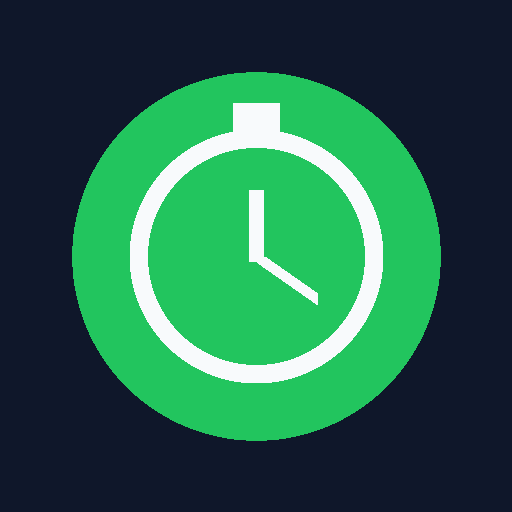
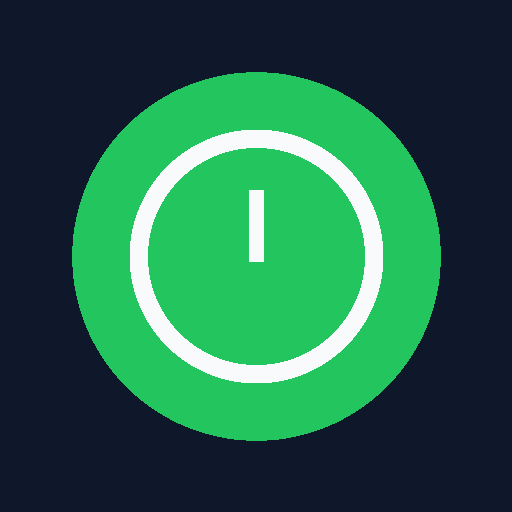
Add files via upload
Update running timer app V11

Changed region(s): [[0.4375, 0.1875, 0.5625, 0.2812], [0.5, 0.5, 0.625, 0.5938]]

diff --git a/index.html b/index.html
@@ -1,88 +1,173 @@
-<!doctype html><html lang="th"><head><meta charset="utf-8"><meta name="viewport" content="width=device-width, initial-scale=1, viewport-fit=cover"><meta name="theme-color" content="#0f172a"><meta name="mobile-web-app-capable" content="yes"><meta name="apple-mobile-web-app-capable" content="yes"><meta name="apple-mobile-web-app-title" content="จับเวลาวิ่ง"><title>แอปจับเวลาวิ่งนักกีฬา</title><link rel="manifest" href="manifest.json"><link rel="apple-touch-icon" href="icon-192.png"><style>:root{--bg:#0f172a;--card:#111827;--muted:#94a3b8;--text:#f8fafc;--accent:#22c55e;--danger:#ef4444;--warn:#f59e0b;--line:#334155;--btn:#1f2937}*{box-sizing:border-box}body{margin:0;font-family:system-ui,-apple-system,"Segoe UI",Tahoma,sans-serif;background:linear-gradient(180deg,#0f172a,#020617);color:var(--text)}header{padding:18px 16px 10px;text-align:center;position:sticky;top:0;background:rgba(15,23,42,.92);backdrop-filter:blur(8px);z-index:5;border-bottom:1px solid var(--line)}h1{font-size:21px;margin:0 0 4px}.sub{color:var(--muted);font-size:13px}main{max-width:760px;margin:0 auto;padding:14px}.card{background:rgba(17,24,39,.92);border:1px solid var(--line);border-radius:18px;padding:14px;margin:12px 0;box-shadow:0 12px 30px rgba(0,0,0,.22)}.timer{font-variant-numeric:tabular-nums;text-align:center;font-size:50px;font-weight:800;letter-spacing:1px;margin:6px 0 12px}.row{display:flex;gap:8px;flex-wrap:wrap}button,input{font:inherit}button{border:0;border-radius:14px;padding:12px 14px;background:var(--btn);color:var(--text);font-weight:700;cursor:pointer}button:active{transform:translateY(1px)}.primary{background:var(--accent);color:#052e16}.danger{background:var(--danger);color:white}.warn{background:var(--warn);color:#431407}.ghost{background:transparent;border:1px solid var(--line);color:var(--text)}.bigRecord{width:100%;font-size:24px;padding:20px;border-radius:20px;margin-top:10px}input{width:100%;border:1px solid var(--line);border-radius:14px;background:#020617;color:var(--text);padding:12px}label{display:block;color:var(--muted);font-size:13px;margin:8px 0 5px}.grid{display:grid;grid-template-columns:1fr 1fr;gap:10px}table{width:100%;border-collapse:collapse;font-size:14px}th,td{border-bottom:1px solid var(--line);padding:9px 6px;text-align:left}th{color:#cbd5e1}.right{text-align:right}.muted{color:var(--muted)}.footer{font-size:12px;color:var(--muted);text-align:center;padding:18px}.count{color:#cbd5e1;font-size:13px;margin-top:10px}.nextBox{padding:12px;border:1px solid var(--line);border-radius:14px;background:#020617;margin-top:10px;text-align:center}.nextName{font-size:22px;font-weight:800;color:#bbf7d0}.help{font-size:12px;color:var(--muted);line-height:1.5;margin-top:8px}#installBox{display:none}@media(max-width:520px){.timer{font-size:42px}.grid{grid-template-columns:1fr}.row button{flex:1}.bigRecord{font-size:22px}}</style></head><body><header><h1>แอปจับเวลาวิ่งนักกีฬา</h1><div class="sub">ไม่ต้องกรอกชื่อ • กดพักเพื่อบันทึก Lab • เสียงปืนเมื่อเริ่ม • เสียงติ๊กเมื่อบันทึก</div></header><main><section class="card" id="installBox"><h3 style="margin:0 0 8px">ติดตั้งเป็นแอปบนมือถือ</h3><div class="help">กดปุ่มติดตั้ง เพื่อเพิ่มไอคอน “จับเวลาวิ่ง” บนหน้าจอหลัก Android</div><div class="row" style="margin-top:10px"><button class="primary" id="installBtn">ติดตั้งแอป</button><button class="ghost" id="hideInstallBtn">ซ่อนไว้ก่อน</button></div></section><section class="card"><div class="timer" id="display">00:00.000</div><div class="row"><button class="primary" id="startBtn">เริ่ม / ต่อเวลา</button><button class="warn" id="pauseBtn">พัก / บันทึก Lab</button><button class="danger" id="resetBtn">รีเซ็ตเวลา</button></div><div class="nextBox"><div class="muted">ครั้งถัดไปที่จะบันทึก</div><div class="nextName" id="nextLab">Lab1</div></div><button class="primary bigRecord" id="recordBtn">บันทึก Lab โดยไม่พักเวลา</button><div class="help">วิธีใช้: กดเริ่ม → เมื่อถึงจุดที่ต้องการให้กด “พัก / บันทึก Lab” ระบบจะบันทึกเป็น Lab1, Lab2, ... อัตโนมัติ ไม่ต้องกรอกชื่อ</div></section><section class="card"><div class="grid"><div><label>ชื่อกิจกรรม/รายการวิ่ง</label><input id="eventName" placeholder="เช่น วิ่ง 100 เมตร / ฝึกซ้อม"></div><div><label>ระยะทาง</label><input id="distance" placeholder="เช่น 100 ม., 400 ม., 5 กม."></div></div><div class="count" id="recordCount">บันทึกแล้ว 0/100 Lab</div></section><section class="card"><div class="row"><button class="primary" id="exportCsvBtn">ดาวน์โหลดตาราง Excel</button><button class="ghost" id="openCsvBtn">เปิดตารางสำรอง</button><button class="ghost" id="copyBtn">คัดลอกตาราง</button><button class="primary" id="shareBtn">แชร์ตารางไป LINE/Messenger</button>
-      <button class="ghost" id="copyShareTableBtn">คัดลอกตารางสำหรับ LINE/Excel</button><button class="danger" id="clearResultsBtn">ล้างเฉพาะผล</button><button class="danger" id="clearBtn">ล้างทั้งหมด</button></div></section><section class="card"><h3 style="margin:0 0 10px">ผลการจับเวลา</h3><div style="overflow:auto"><table><thead><tr><th>ลำดับ</th><th>รายการ</th><th>เวลา mm:ss.000</th><th>มิลลิวินาที</th><th>กิจกรรม</th><th>ระยะทาง</th><th>วันเวลา</th><th></th></tr></thead><tbody id="results"></tbody></table></div></section><div class="footer">ข้อมูลถูกเก็บในเครื่องนี้ ใช้งานออฟไลน์ได้หลังเปิดใช้งานครั้งแรก</div></main><script>const MAX_RECORDS=100;let running=false,startTime=0,elapsed=0,tick=null;let records=JSON.parse(localStorage.getItem("records_v8")||"[]");const $=id=>document.getElementById(id),display=$("display");function format(ms){const totalMs=Math.floor(ms),milli=totalMs%1000,totalSec=Math.floor(totalMs/1000),s=totalSec%60,m=Math.floor(totalSec/60);return `${String(m).padStart(2,"0")}:${String(s).padStart(2,"0")}.${String(milli).padStart(3,"0")}`}function nowMs(){return performance.now()}function currentElapsed(){return running?elapsed+(nowMs()-startTime):elapsed}function update(){display.textContent=format(currentElapsed())}function save(){localStorage.setItem("records_v8",JSON.stringify(records))}function escapeHtml(s){return String(s||"").replace(/[&<>"']/g,m=>({"&":"&amp;","<":"&lt;",">":"&gt;",'"':"&quot;","'":"&#39;"}[m]))}function updateStatus(){$("recordCount").textContent=`บันทึกแล้ว ${records.length}/${MAX_RECORDS} Lab`;$("nextLab").textContent=records.length>=MAX_RECORDS?"บันทึกครบ 100 Lab แล้ว":`Lab${records.length+1}`}function addLabRecord(ms){if(records.length>=MAX_RECORDS)return alert(`บันทึกครบ ${MAX_RECORDS} Lab แล้ว`);if(ms<=0)return alert("กรุณากดเริ่มจับเวลาก่อน");const labName=`Lab${records.length+1}`;records.push({name:labName,time:format(ms),milliseconds:Math.round(ms),eventName:$("eventName").value.trim(),distance:$("distance").value.trim(),datetime:new Date().toLocaleString("th-TH")});save();renderRecords()}function renderRecords(){const tb=$("results");tb.innerHTML="";records.forEach((r,i)=>{const tr=document.createElement("tr");tr.innerHTML=`<td>${i+1}</td><td>${escapeHtml(r.name)}</td><td class="right">${r.time}</td><td class="right">${r.milliseconds}</td><td>${escapeHtml(r.eventName)}</td><td>${escapeHtml(r.distance)}</td><td>${escapeHtml(r.datetime)}</td><td><button class="ghost small" onclick="deleteRecord(${i})">ลบ</button></td>`;tb.appendChild(tr)});updateStatus()}
-let audioCtx = null;
-function getAudioCtx(){
-  if(!audioCtx){
-    audioCtx = new (window.AudioContext || window.webkitAudioContext)();
-  }
-  if(audioCtx.state === "suspended"){
-    audioCtx.resume();
-  }
-  return audioCtx;
-}
+<!doctype html>
+<html lang="th">
+<head>
+<meta charset="utf-8">
+<meta name="viewport" content="width=device-width, initial-scale=1, viewport-fit=cover">
+<meta name="theme-color" content="#0f172a">
+<meta name="mobile-web-app-capable" content="yes">
+<link rel="manifest" href="manifest.json">
+<link rel="apple-touch-icon" href="icon-192.png">
+<title>แอปจับเวลาวิ่งนักกีฬา</title>
+<style>
+:root{--bg:#0f172a;--card:#111827;--muted:#94a3b8;--text:#f8fafc;--accent:#22c55e;--danger:#ef4444;--warn:#f59e0b;--line:#334155;--btn:#1f2937}
+*{box-sizing:border-box}body{margin:0;font-family:system-ui,-apple-system,"Segoe UI",Tahoma,sans-serif;background:linear-gradient(180deg,#0f172a,#020617);color:var(--text)}
+header{padding:18px 16px 10px;text-align:center;position:sticky;top:0;background:rgba(15,23,42,.92);z-index:5;border-bottom:1px solid var(--line)}
+h1{font-size:21px;margin:0 0 4px}.sub{color:var(--muted);font-size:13px}
+main{max-width:760px;margin:0 auto;padding:14px}.card{background:rgba(17,24,39,.92);border:1px solid var(--line);border-radius:18px;padding:14px;margin:12px 0;box-shadow:0 12px 30px rgba(0,0,0,.22)}
+.timer{font-variant-numeric:tabular-nums;text-align:center;font-size:50px;font-weight:800;letter-spacing:1px;margin:6px 0 12px}
+.row{display:flex;gap:8px;flex-wrap:wrap}button,input{font:inherit}
+button{border:0;border-radius:14px;padding:12px 14px;background:var(--btn);color:var(--text);font-weight:700;cursor:pointer}
+.primary{background:var(--accent);color:#052e16}.danger{background:var(--danger);color:#fff}.warn{background:var(--warn);color:#431407}.ghost{background:transparent;border:1px solid var(--line);color:var(--text)}
+.bigRecord{width:100%;font-size:24px;padding:20px;border-radius:20px;margin-top:10px}
+input{width:100%;border:1px solid var(--line);border-radius:14px;background:#020617;color:var(--text);padding:12px}
+label{display:block;color:var(--muted);font-size:13px;margin:8px 0 5px}.grid{display:grid;grid-template-columns:1fr 1fr;gap:10px}
+table{width:100%;border-collapse:collapse;font-size:14px}th,td{border-bottom:1px solid var(--line);padding:9px 6px;text-align:left}th{color:#cbd5e1}.right{text-align:right}
+.muted,.help,.footer{color:var(--muted)}.help{font-size:12px;line-height:1.5;margin-top:8px}.footer{font-size:12px;text-align:center;padding:18px}.count{color:#cbd5e1;font-size:13px;margin-top:10px}
+.nextBox{padding:12px;border:1px solid var(--line);border-radius:14px;background:#020617;margin-top:10px;text-align:center}.nextName{font-size:22px;font-weight:800;color:#bbf7d0}
+#installBox{display:none}@media(max-width:520px){.timer{font-size:42px}.grid{grid-template-columns:1fr}.row button{flex:1}.bigRecord{font-size:22px}}
+</style>
+</head>
+<body>
+<header>
+<h1>แอปจับเวลาวิ่งนักกีฬา</h1>
+<div class="sub">เสียงปืนดังขึ้น • เสียงติ๊กเมื่อบันทึก • ใช้งานออฟไลน์</div>
+</header>
+<main>
+<section class="card" id="installBox">
+<h3 style="margin:0 0 8px">ติดตั้งเป็นแอปบนมือถือ</h3>
+<div class="help">กดปุ่มติดตั้ง เพื่อเพิ่มไอคอนบนหน้าจอหลัก Android</div>
+<div class="row" style="margin-top:10px"><button class="primary" id="installBtn">ติดตั้งแอป</button><button class="ghost" id="hideInstallBtn">ซ่อนไว้ก่อน</button></div>
+</section>
 
-function playStartGun(){
+<section class="card">
+<div class="timer" id="display">00:00.000</div>
+<div class="row">
+<button class="primary" id="startBtn">เริ่ม / ต่อเวลา</button>
+<button class="warn" id="pauseBtn">พัก / บันทึก Lab</button>
+<button class="danger" id="resetBtn">รีเซ็ตเวลา</button>
+<button class="ghost" id="testSoundBtn">ทดสอบเสียง</button>
+</div>
+<div class="nextBox"><div class="muted">ครั้งถัดไปที่จะบันทึก</div><div class="nextName" id="nextLab">Lab1</div></div>
+<button class="primary bigRecord" id="recordBtn">บันทึก Lab โดยไม่พักเวลา</button>
+<div class="help">ถ้าไม่ได้ยินเสียง ให้กด “ทดสอบเสียง” 1 ครั้ง เพิ่มระดับเสียงมือถือ และปิดโหมดเงียบ</div>
+</section>
+
+<section class="card">
+<div class="grid">
+<div><label>ชื่อกิจกรรม/รายการวิ่ง</label><input id="eventName" placeholder="เช่น วิ่ง 100 เมตร / ฝึกซ้อม"></div>
+<div><label>ระยะทาง</label><input id="distance" placeholder="เช่น 100 ม., 400 ม., 5 กม."></div>
+</div>
+<div class="count" id="recordCount">บันทึกแล้ว 0/100 Lab</div>
+</section>
+
+<section class="card">
+<div class="row">
+<button class="primary" id="exportBtn">ดาวน์โหลดตาราง Excel</button>
+<button class="ghost" id="openBtn">เปิดตารางสำรอง</button>
+<button class="ghost" id="copyBtn">คัดลอกตาราง</button>
+<button class="primary" id="shareBtn">แชร์ตารางไป LINE/Messenger</button>
+<button class="ghost" id="copyShareTableBtn">คัดลอกตารางสำหรับ LINE/Excel</button>
+<button class="danger" id="clearResultsBtn">ล้างเฉพาะผล</button>
+<button class="danger" id="clearBtn">ล้างทั้งหมด</button>
+</div>
+</section>
+
+<section class="card">
+<h3 style="margin:0 0 10px">ผลการจับเวลา</h3>
+<div style="overflow:auto"><table><thead><tr><th>ลำดับ</th><th>รายการ</th><th>เวลา mm:ss.000</th><th>มิลลิวินาที</th><th>กิจกรรม</th><th>ระยะทาง</th><th>วันเวลา</th><th></th></tr></thead><tbody id="results"></tbody></table></div>
+</section>
+<div class="footer">ข้อมูลถูกเก็บในเครื่องนี้ ใช้งานออฟไลน์ได้หลังเปิดใช้งานครั้งแรก</div>
+</main>
+
+<script>
+const MAX_RECORDS=100;
+let running=false,startTime=0,elapsed=0,tick=null;
+let records=JSON.parse(localStorage.getItem("records_v11")||localStorage.getItem("records_v8")||localStorage.getItem("records")||"[]");
+const $=id=>document.getElementById(id);
+let audioCtx=null;
+
+async function unlockAudio(){
   try{
-    const ctx = getAudioCtx();
-    const now = ctx.currentTime;
-
-    const bufferSize = Math.floor(ctx.sampleRate * 0.22);
-    const buffer = ctx.createBuffer(1, bufferSize, ctx.sampleRate);
-    const data = buffer.getChannelData(0);
-    for(let i=0;i<bufferSize;i++){
-      data[i] = (Math.random() * 2 - 1) * Math.pow(1 - i / bufferSize, 2.2);
+    if(!audioCtx) audioCtx=new (window.AudioContext||window.webkitAudioContext)();
+    if(audioCtx.state==="suspended") await audioCtx.resume();
+    return audioCtx;
+  }catch(e){return null;}
+}
+async function playStartGun(){
+  try{
+    const ctx=await unlockAudio(); if(!ctx) return;
+    const now=ctx.currentTime+0.01;
+    for(let b=0;b<2;b++){
+      const dur=b===0?0.20:0.12, start=now+b*0.055;
+      const buffer=ctx.createBuffer(1,Math.floor(ctx.sampleRate*dur),ctx.sampleRate);
+      const data=buffer.getChannelData(0);
+      for(let i=0;i<data.length;i++) data[i]=(Math.random()*2-1)*Math.pow(1-i/data.length,b===0?1.6:2.3);
+      const src=ctx.createBufferSource(); src.buffer=buffer;
+      const filter=ctx.createBiquadFilter(); filter.type="bandpass"; filter.frequency.value=b===0?900:1600; filter.Q.value=0.9;
+      const gain=ctx.createGain(); gain.gain.setValueAtTime(b===0?1.0:0.75,start); gain.gain.exponentialRampToValueAtTime(0.001,start+dur);
+      src.connect(filter); filter.connect(gain); gain.connect(ctx.destination); src.start(start); src.stop(start+dur);
     }
-
-    const noise = ctx.createBufferSource();
-    noise.buffer = buffer;
-
-    const filter = ctx.createBiquadFilter();
-    filter.type = "lowpass";
-    filter.frequency.setValueAtTime(900, now);
-
-    const gain = ctx.createGain();
-    gain.gain.setValueAtTime(0.9, now);
-    gain.gain.exponentialRampToValueAtTime(0.001, now + 0.22);
-
-    noise.connect(filter);
-    filter.connect(gain);
-    gain.connect(ctx.destination);
-    noise.start(now);
-    noise.stop(now + 0.22);
-
-    const boom = ctx.createOscillator();
-    const boomGain = ctx.createGain();
-    boom.type = "triangle";
-    boom.frequency.setValueAtTime(95, now);
-    boom.frequency.exponentialRampToValueAtTime(45, now + 0.18);
-    boomGain.gain.setValueAtTime(0.35, now);
-    boomGain.gain.exponentialRampToValueAtTime(0.001, now + 0.18);
-    boom.connect(boomGain);
-    boomGain.connect(ctx.destination);
-    boom.start(now);
-    boom.stop(now + 0.18);
-  }catch(err){}
+    const boom=ctx.createOscillator(), bg=ctx.createGain();
+    boom.type="square"; boom.frequency.setValueAtTime(120,now); boom.frequency.exponentialRampToValueAtTime(42,now+0.25);
+    bg.gain.setValueAtTime(0.55,now); bg.gain.exponentialRampToValueAtTime(0.001,now+0.25);
+    boom.connect(bg); bg.connect(ctx.destination); boom.start(now); boom.stop(now+0.25);
+  }catch(e){}
+}
+async function playRecordTick(){
+  try{
+    const ctx=await unlockAudio(); if(!ctx) return;
+    const now=ctx.currentTime+0.01, osc=ctx.createOscillator(), gain=ctx.createGain();
+    osc.type="sine"; osc.frequency.setValueAtTime(1400,now);
+    gain.gain.setValueAtTime(0.45,now); gain.gain.exponentialRampToValueAtTime(0.001,now+0.09);
+    osc.connect(gain); gain.connect(ctx.destination); osc.start(now); osc.stop(now+0.09);
+  }catch(e){}
 }
 
-function playRecordTick(){
-  try{
-    const ctx = getAudioCtx();
-    const now = ctx.currentTime;
-    const osc = ctx.createOscillator();
-    const gain = ctx.createGain();
-
-    osc.type = "sine";
-    osc.frequency.setValueAtTime(1200, now);
-    gain.gain.setValueAtTime(0.35, now);
-    gain.gain.exponentialRampToValueAtTime(0.001, now + 0.08);
-
-    osc.connect(gain);
-    gain.connect(ctx.destination);
-    osc.start(now);
-    osc.stop(now + 0.08);
-  }catch(err){}
+function format(ms){const t=Math.floor(ms), milli=t%1000, sec=Math.floor(t/1000), s=sec%60, m=Math.floor(sec/60);return `${String(m).padStart(2,"0")}:${String(s).padStart(2,"0")}.${String(milli).padStart(3,"0")}`;}
+function currentElapsed(){return running?elapsed+(performance.now()-startTime):elapsed;}
+function update(){display.textContent=format(currentElapsed());}
+function save(){localStorage.setItem("records_v11",JSON.stringify(records));}
+function esc(s){return String(s??"").replace(/[&<>"']/g,m=>({"&":"&amp;","<":"&lt;",">":"&gt;",'"':"&quot;","'":"&#39;"}[m]));}
+function updateStatus(){recordCount.textContent=`บันทึกแล้ว ${records.length}/${MAX_RECORDS} Lab`; nextLab.textContent=records.length>=MAX_RECORDS?"บันทึกครบ 100 Lab แล้ว":`Lab${records.length+1}`;}
+async function addLabRecord(ms){
+  if(records.length>=MAX_RECORDS) return alert(`บันทึกครบ ${MAX_RECORDS} Lab แล้ว`);
+  if(ms<=0) return alert("กรุณากดเริ่มจับเวลาก่อน");
+  const lab=`Lab${records.length+1}`;
+  records.push({name:lab,time:format(ms),milliseconds:Math.round(ms),eventName:eventName.value.trim(),distance:distance.value.trim(),datetime:new Date().toLocaleString("th-TH")});
+  save(); renderRecords(); await playRecordTick();
 }
+function renderRecords(){
+  results.innerHTML="";
+  records.forEach((r,i)=>{const tr=document.createElement("tr");tr.innerHTML=`<td>${i+1}</td><td>${esc(r.name)}</td><td class="right">${r.time}</td><td class="right">${r.milliseconds}</td><td>${esc(r.eventName)}</td><td>${esc(r.distance)}</td><td>${esc(r.datetime)}</td><td><button class="ghost" onclick="deleteRecord(${i})">ลบ</button></td>`;results.appendChild(tr);});
+  updateStatus();
+}
+startBtn.onclick=async()=>{if(!running){await playStartGun();running=true;startTime=performance.now();tick=setInterval(update,16);}};
+pauseBtn.onclick=async()=>{if(!running)return alert("กรุณากดเริ่มก่อน");elapsed+=performance.now()-startTime;running=false;clearInterval(tick);update();await addLabRecord(elapsed);};
+recordBtn.onclick=async()=>{await addLabRecord(currentElapsed());};
+resetBtn.onclick=()=>{running=false;clearInterval(tick);elapsed=0;update();};
+testSoundBtn.onclick=async()=>{await playStartGun();setTimeout(()=>playRecordTick(),450);};
+window.deleteRecord=i=>{records.splice(i,1);save();renderRecords();};
 
-$("startBtn").onclick=()=>{if(!running){running=true;startTime=nowMs();tick=setInterval(update,16)}};$("pauseBtn").onclick=()=>{if(!running)return alert("กรุณากดเริ่มก่อน");elapsed+=nowMs()-startTime;running=false;clearInterval(tick);update();addLabRecord(elapsed)};$("recordBtn").onclick=()=>{addLabRecord(currentElapsed())};$("resetBtn").onclick=()=>{running=false;clearInterval(tick);elapsed=0;update()};window.deleteRecord=i=>{records.splice(i,1);save();renderRecords()};function tableRows(rows){const h=["ลำดับ","รายการ","เวลา mm:ss.000","มิลลิวินาที","กิจกรรม","ระยะทาง","วันเวลา"],d=rows.map((r,i)=>[i+1,r.name,r.time,r.milliseconds,r.eventName,r.distance,r.datetime]);return[h,...d]}function toTsv(rows){return tableRows(rows).map(row=>row.map(v=>String(v??"").replace(/\t/g," ").replace(/\r?\n/g," ")).join("\t")).join("\n")}function toShareText(rows){const eventName=$("eventName").value||(records[0]&&records[0].eventName)||"ผลการจับเวลา",distance=$("distance").value||(records[0]&&records[0].distance)||"";let lines=[`ผลการจับเวลา: ${eventName}${distance?" ระยะทาง "+distance:""}`,"","ลำดับ\tรายการ\tเวลา"];rows.forEach((r,i)=>lines.push(`${i+1}\t${r.name}\t${r.time}`));return lines.join("\n")}function toExcelHtml(rows){const esc=s=>String(s??"").replace(/[&<>"']/g,m=>({"&":"&amp;","<":"&lt;",">":"&gt;",'"':"&quot;","'":"&#39;"}[m]));const trs=tableRows(rows).map((row,ri)=>{const tag=ri===0?"th":"td";return"<tr>"+row.map(v=>`<${tag} style="border:1px solid #999;padding:6px;mso-number-format:'\\@';">${esc(v)}</${tag}>`).join("")+"</tr>"}).join("");return`<!doctype html><html><head><meta charset="utf-8"><style>table{border-collapse:collapse;font-family:Tahoma,Arial,sans-serif;font-size:12pt}th{background:#d9ead3;font-weight:bold}td,th{border:1px solid #999;padding:6px}</style></head><body><table>${trs}</table></body></html>`}function safeFileName(text){let name=String(text||"").trim();if(!name&&records.length>0)name=String(records[0].eventName||"").trim();if(!name)name="running_timer";name=name.replace(/[\\/:*?"<>|]/g,"_").replace(/\s+/g,"_").replace(/_+/g,"_").replace(/^_+|_+$/g,"");return(name||"running_timer").slice(0,80)}function getExportName(ext){return`${safeFileName($("eventName").value)}_${new Date().toISOString().slice(0,10)}.${ext}`}function downloadText(text,filename,mimeType){const blob=new Blob([text],{type:mimeType}),url=URL.createObjectURL(blob),a=document.createElement("a");a.href=url;a.download=filename;a.style.display="none";document.body.appendChild(a);a.click();setTimeout(()=>{document.body.removeChild(a);URL.revokeObjectURL(url)},1000)}$("exportCsvBtn").onclick=()=>{if(!records.length)return alert("ยังไม่มีข้อมูลผลการจับเวลา");try{downloadText("\ufeff"+toExcelHtml(records),getExportName("xls"),"application/vnd.ms-excel;charset=utf-8")}catch(err){alert("ดาวน์โหลดไม่ได้ กรุณาใช้ปุ่ม เปิดตารางสำรอง หรือ คัดลอกตาราง")}};$("openCsvBtn").onclick=()=>{if(!records.length)return alert("ยังไม่มีข้อมูลผลการจับเวลา");const blob=new Blob(["\ufeff"+toTsv(records)],{type:"text/tab-separated-values;charset=utf-8"}),url=URL.createObjectURL(blob),win=window.open(url,"_blank");if(!win)alert("เบราว์เซอร์บล็อกการเปิดไฟล์ กรุณาใช้ปุ่มคัดลอกตาราง");setTimeout(()=>URL.revokeObjectURL(url),60000)};$("copyBtn").onclick=async()=>{if(!records.length)return alert("ยังไม่มีข้อมูลให้คัดลอก");const tabText=toTsv(records);try{await navigator.clipboard.writeText(tabText);alert("คัดลอกตารางแล้ว สามารถวางใน Excel ได้เลย")}catch(err){prompt("คัดลอกข้อมูลด้านล่าง แล้วนำไปวางใน Excel",tabText)}};$("shareBtn").onclick=async()=>{if(!records.length)return alert("ยังไม่มีข้อมูลสำหรับแชร์");const shareText=toShareText(records),title=$("eventName").value||"ผลการจับเวลา";if(navigator.share){try{await navigator.share({title:title,text:shareText})}catch(err){}}else{try{await navigator.clipboard.writeText(shareText);alert("เครื่องนี้ไม่รองรับเมนูแชร์ จึงคัดลอกผลให้แล้ว นำไปวางใน LINE/Messenger ได้เลย")}catch(err){prompt("คัดลอกผล แล้วนำไปวางใน LINE/Messenger",shareText)}}};
-$("copyShareTableBtn").onclick=async()=>{
-  if(!records.length) return alert("ยังไม่มีข้อมูลให้คัดลอก");
-  const tsvOnly = toTsv(records);
-  try{
-    await navigator.clipboard.writeText(tsvOnly);
-    alert("คัดลอกตารางแบบ TSV แล้ว นำไปวางใน LINE/Messenger หรือ Excel ได้เลย");
-  }catch(err){
-    prompt("คัดลอกตารางนี้ แล้วนำไปวางใน LINE/Messenger หรือ Excel", tsvOnly);
-  }
-};
+function tableRows(rows){const h=["ลำดับ","รายการ","เวลา mm:ss.000","มิลลิวินาที","กิจกรรม","ระยะทาง","วันเวลา"];return [h,...rows.map((r,i)=>[i+1,r.name,r.time,r.milliseconds,r.eventName,r.distance,r.datetime])];}
+function toTsv(rows){return tableRows(rows).map(row=>row.map(v=>String(v??"").replace(/\t/g," ").replace(/\r?\n/g," ")).join("\t")).join("\n");}
+function toExcelHtml(rows){const trs=tableRows(rows).map((row,ri)=>{const tag=ri===0?"th":"td";return "<tr>"+row.map(v=>`<${tag} style="border:1px solid #999;padding:6px;mso-number-format:'\\@';">${esc(v)}</${tag}>`).join("")+"</tr>";}).join("");return `<!doctype html><html><head><meta charset="utf-8"><style>table{border-collapse:collapse;font-family:Tahoma;font-size:12pt}th{background:#d9ead3}</style></head><body><table>${trs}</table></body></html>`;}
+function safeName(s){let n=String(s||"").trim()||(records[0]&&records[0].eventName)||"running_timer";return n.replace(/[\\/:*?"<>|]/g,"_").replace(/\s+/g,"_").slice(0,80);}
+function fname(ext){return `${safeName(eventName.value)}_${new Date().toISOString().slice(0,10)}.${ext}`;}
+function download(text,name,type){const blob=new Blob([text],{type});const url=URL.createObjectURL(blob);const a=document.createElement("a");a.href=url;a.download=name;document.body.appendChild(a);a.click();setTimeout(()=>{a.remove();URL.revokeObjectURL(url);},1000);}
+exportBtn.onclick=()=>{if(!records.length)return alert("ยังไม่มีข้อมูล");download("\ufeff"+toExcelHtml(records),fname("xls"),"application/vnd.ms-excel;charset=utf-8");};
+openBtn.onclick=()=>{if(!records.length)return alert("ยังไม่มีข้อมูล");const url=URL.createObjectURL(new Blob(["\ufeff"+toTsv(records)],{type:"text/plain;charset=utf-8"}));window.open(url,"_blank");setTimeout(()=>URL.revokeObjectURL(url),60000);};
+copyBtn.onclick=async()=>{if(!records.length)return alert("ยังไม่มีข้อมูล");try{await navigator.clipboard.writeText(toTsv(records));alert("คัดลอกตารางแล้ว");}catch(e){prompt("คัดลอกตาราง",toTsv(records));}};
+copyShareTableBtn.onclick=copyBtn.onclick;
+shareBtn.onclick=async()=>{if(!records.length)return alert("ยังไม่มีข้อมูล");const t=toTsv(records);try{await navigator.clipboard.writeText(t);}catch(e){}try{const file=new File(["\ufeff"+t],fname("txt"),{type:"text/plain;charset=utf-8"});if(navigator.canShare&&navigator.canShare({files:[file]})){await navigator.share({title:eventName.value||"ผลการจับเวลา",text:"แนบไฟล์ตาราง และคัดลอกตารางไว้แล้ว",files:[file]});return;}}catch(e){}if(navigator.share){await navigator.share({title:eventName.value||"ผลการจับเวลา",text:t});}else{prompt("คัดลอกตาราง",t);}};
+clearResultsBtn.onclick=()=>{if(confirm("ล้างเฉพาะผลหรือไม่?")){records=[];save();renderRecords();}};
+clearBtn.onclick=()=>{if(confirm("ล้างทั้งหมดหรือไม่?")){records=[];elapsed=0;running=false;clearInterval(tick);save();update();renderRecords();}};
 
-$("clearResultsBtn").onclick=()=>{if(confirm("ต้องการล้างเฉพาะผลที่บันทึกไว้หรือไม่?")){records=[];save();renderRecords()}};$("clearBtn").onclick=()=>{if(confirm("ต้องการล้างทั้งหมดหรือไม่?")){records=[];elapsed=0;running=false;clearInterval(tick);save();update();renderRecords()}};let deferredPrompt=null;window.addEventListener("beforeinstallprompt",e=>{e.preventDefault();deferredPrompt=e;if(localStorage.getItem("hideInstallBox")!=="1")$("installBox").style.display="block"});$("installBtn").onclick=async()=>{if(!deferredPrompt)return alert("หากไม่ขึ้นปุ่มติดตั้ง ให้เปิดเมนู Chrome แล้วเลือก เพิ่มไปยังหน้าจอหลัก");deferredPrompt.prompt();await deferredPrompt.userChoice;deferredPrompt=null;$("installBox").style.display="none"};$("hideInstallBtn").onclick=()=>{localStorage.setItem("hideInstallBox","1");$("installBox").style.display="none"};if("serviceWorker" in navigator){window.addEventListener("load",()=>navigator.serviceWorker.register("./sw.js").catch(()=>{}))}renderRecords();update();</script></body></html>
+let deferredPrompt=null;
+window.addEventListener("beforeinstallprompt",e=>{e.preventDefault();deferredPrompt=e;if(localStorage.getItem("hideInstallBox")!=="1")installBox.style.display="block";});
+installBtn.onclick=async()=>{if(!deferredPrompt)return alert("ให้เปิดเมนู Chrome แล้วเลือก เพิ่มไปยังหน้าจอหลัก");deferredPrompt.prompt();await deferredPrompt.userChoice;installBox.style.display="none";};
+hideInstallBtn.onclick=()=>{localStorage.setItem("hideInstallBox","1");installBox.style.display="none";};
+if("serviceWorker" in navigator)window.addEventListener("load",()=>navigator.serviceWorker.register("./sw.js").catch(()=>{}));
+renderRecords();update();
+</script>
+</body>
+</html>

diff --git a/sw.js b/sw.js
@@ -1,26 +1,5 @@
-const CACHE="running-timer-v10";
+const CACHE="running-timer-v11";
 const ASSETS=["./","./index.html","./manifest.json","./icon-192.png","./icon-512.png"];
-
-self.addEventListener("install", event => {
-  event.waitUntil(caches.open(CACHE).then(cache => cache.addAll(ASSETS)));
-  self.skipWaiting();
-});
-
-self.addEventListener("activate", event => {
-  event.waitUntil(
-    caches.keys().then(keys => Promise.all(keys.filter(key => key !== CACHE).map(key => caches.delete(key))))
-  );
-  self.clients.claim();
-});
-
-self.addEventListener("fetch", event => {
-  event.respondWith(
-    caches.match(event.request).then(cached => {
-      return cached || fetch(event.request).then(response => {
-        const copy = response.clone();
-        caches.open(CACHE).then(cache => cache.put(event.request, copy)).catch(()=>{});
-        return response;
-      }).catch(() => caches.match("./index.html"));
-    })
-  );
-});
+self.addEventListener("install",e=>{e.waitUntil(caches.open(CACHE).then(c=>c.addAll(ASSETS)));self.skipWaiting();});
+self.addEventListener("activate",e=>{e.waitUntil(caches.keys().then(keys=>Promise.all(keys.filter(k=>k!==CACHE).map(k=>caches.delete(k)))));self.clients.claim();});
+self.addEventListener("fetch",e=>{e.respondWith(caches.match(e.request).then(r=>r||fetch(e.request).then(res=>{const copy=res.clone();caches.open(CACHE).then(c=>c.put(e.request,copy)).catch(()=>{});return res;}).catch(()=>caches.match("./index.html"))));});